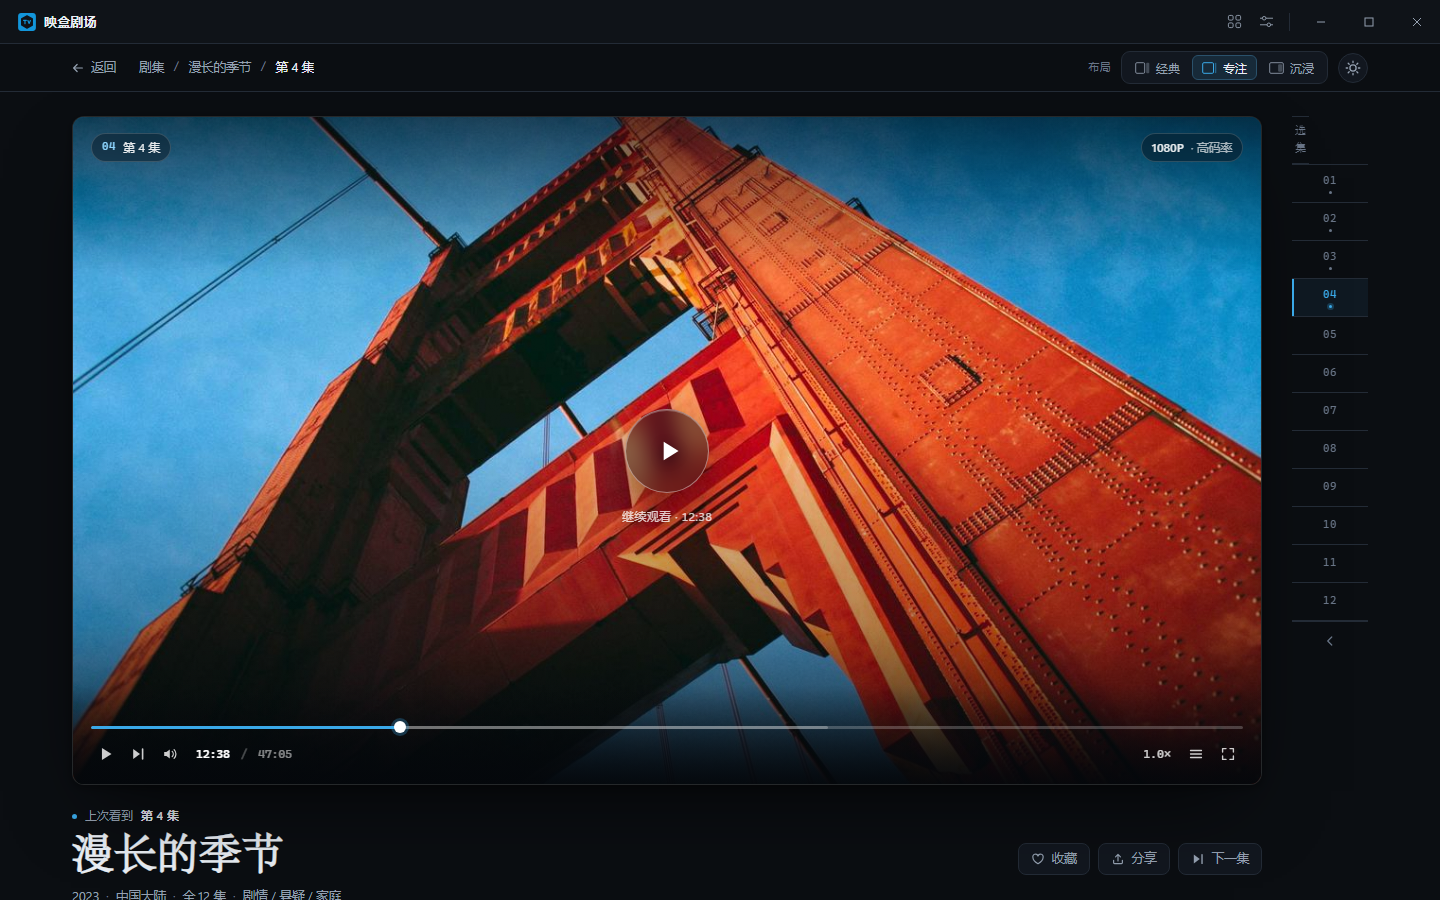
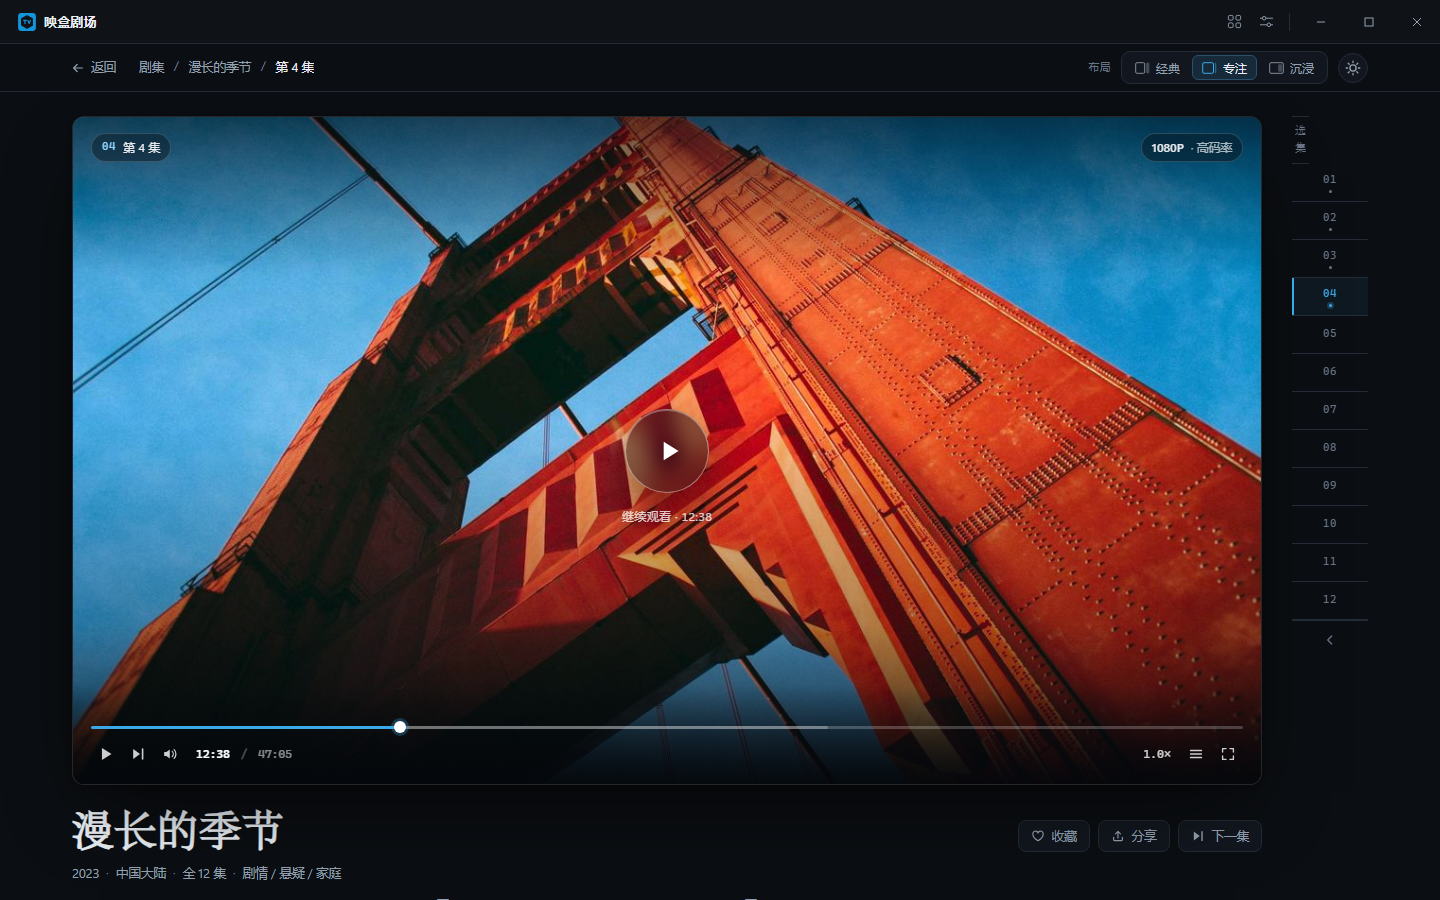
docs: refine playback prototype layout and assets
Polish the 播放页原型: reposition the immersive sidebar below the title bar, tighten focus/immersive layouts, document ?tab and ?autoplay params, and improve accessibility (favorite aria-pressed with filled heart, episode aria-labels, tab arrow-key propagation) plus a guarded localStorage read and a fixed autoplay-next animation restart. Replace the underscore-prefixed asset set with a cleaned-up set of screenshots and refresh the remaining ones.

diff --git a/docs/播放页原型.html b/docs/播放页原型.html
@@ -18,6 +18,7 @@
       不加载真实视频；默认深色是「熄灯看片」的意思，?theme=light 可看浅色。
 
       直接看某个变体：?layout=focus 或 ?layout=immersive
+      侧栏标签：?tab=info 或 ?tab=related；播放态：?autoplay=1
       素材：docs/首页原型素材/，预览：docs/播放页原型预览/
     -->
     <style>
@@ -976,10 +977,6 @@
         color: var(--accent);
       }
 
-      .act.is-on .ic path {
-        fill: currentColor;
-      }
-
       .meta {
         margin: 9px 0 0;
         color: var(--text-muted);
@@ -1627,6 +1624,10 @@
         border-top: 0;
       }
 
+      body[data-layout='focus'] .eyebrow {
+        display: none;
+      }
+
       body[data-layout='focus'] .ep {
         height: 38px;
         grid-template-columns: 1fr;
@@ -1820,18 +1821,17 @@
       body[data-layout='immersive'] .side {
         position: absolute;
         z-index: 8;
-        top: 50%;
+        top: 104px;
         right: 24px;
         display: flex;
         width: 322px;
-        max-height: calc(100% - 128px);
+        max-height: calc(100% - 190px);
         flex-direction: column;
         padding: 15px 15px 11px;
         border: 1px solid color-mix(in srgb, var(--text) 16%, transparent);
         border-radius: 14px;
         background: color-mix(in srgb, var(--surface) 78%, transparent);
         box-shadow: 0 28px 70px rgba(0, 0, 0, 0.42);
-        transform: translateY(-50%);
         backdrop-filter: blur(22px) saturate(1.2);
         transition:
           opacity 240ms ease,
@@ -1860,7 +1860,11 @@
       body[data-layout='immersive'] .side.is-hidden {
         opacity: 0;
         pointer-events: none;
-        transform: translate(calc(100% + 44px), -50%);
+        transform: translateX(calc(100% + 44px));
+      }
+
+      body[data-layout='immersive'] .ep {
+        height: 40px;
       }
 
       body[data-layout='immersive'] .side-exit {
@@ -2250,6 +2254,12 @@
           stroke-linejoin="round"
         />
       </symbol>
+      <symbol id="i-heart-fill" viewBox="0 0 16 16">
+        <path
+          d="M8 13.4S2.2 10.1 2.2 6.3A3 3 0 0 1 8 4.6a3 3 0 0 1 5.8 1.7c0 3.8-5.8 7.1-5.8 7.1z"
+          fill="currentColor"
+        />
+      </symbol>
       <symbol id="i-share" viewBox="0 0 16 16" fill="none">
         <path
           d="M8 2.8v7.4M5.2 5.6 8 2.8l2.8 2.8M3 9.4v2.8c0 .6.4 1 1 1h8c.6 0 1-.4 1-1V9.4"
@@ -2527,7 +2537,7 @@
                 <div class="title-row">
                   <h1 class="title">漫长的季节</h1>
                   <div class="actions">
-                    <button class="act" type="button" id="favBtn">
+                    <button class="act" type="button" id="favBtn" aria-pressed="false">
                       <svg class="ic" viewBox="0 0 16 16" aria-hidden="true">
                         <use href="#i-heart" />
                       </svg>
@@ -2946,6 +2956,15 @@
         toastTimer = window.setTimeout(() => els.toast.classList.remove('is-on'), 1900)
       }
 
+      /** 本地存储被禁用时不要让整页脚本挂掉 */
+      function readStorage(key) {
+        try {
+          return localStorage.getItem(key)
+        } catch (error) {
+          return null
+        }
+      }
+
       function copyText(text) {
         if (navigator.clipboard && navigator.clipboard.writeText) {
           return navigator.clipboard.writeText(text).then(
@@ -2995,7 +3014,13 @@
               episode.n +
               ' 集 · ' +
               formatTime(episode.dur) +
-              (isCurrent ? ' · 正在播放' : isWatched ? ' · 已看完' : '')
+              (isCurrent
+                ? ' · ' + statusWord()
+                : isWatched
+                  ? ' · 已看完'
+                  : episode.progress > 0
+                    ? ' · 已看 ' + Math.round(episode.progress * 100) + '%'
+                    : '')
             return (
               '<li>' +
               '<button class="ep' +
@@ -3131,6 +3156,17 @@
         if (row) {
           const sub = row.querySelector('.ep-sub')
           if (sub) sub.textContent = statusWord() + ' · ' + formatTime(state.time)
+          row.setAttribute(
+            'aria-label',
+            '第 ' +
+              state.ep +
+              ' 集，' +
+              statusWord() +
+              ' ' +
+              formatTime(state.time) +
+              '，时长 ' +
+              formatTime(currentEpisode().dur)
+          )
         }
         els.resumeHint.textContent = state.time > 0 ? '继续观看 · ' + formatTime(state.time) : '播放本集'
         els.resumeHint.hidden = state.playing
@@ -3183,6 +3219,8 @@
           setTime(episode.dur)
           if (state.ep < EPISODES.length) {
             selectEpisode(state.ep + 1, { autoplay: true, silent: true })
+            lastFrame = 0
+            rafId = window.requestAnimationFrame(tick)
             showToast('第 ' + state.ep + ' 集自动接上了')
           } else {
             setPlaying(false)
@@ -3486,6 +3524,7 @@
         button.addEventListener('keydown', (event) => {
           if (event.key !== 'ArrowRight' && event.key !== 'ArrowLeft') return
           event.preventDefault()
+          event.stopPropagation()
           const index = els.tabs.indexOf(button)
           const next =
             event.key === 'ArrowRight'
@@ -3521,6 +3560,8 @@
       els.favBtn.addEventListener('click', () => {
         state.fav = !state.fav
         els.favBtn.classList.toggle('is-on', state.fav)
+        els.favBtn.setAttribute('aria-pressed', String(state.fav))
+        els.favBtn.querySelector('use').setAttribute('href', state.fav ? '#i-heart-fill' : '#i-heart')
         els.favText.textContent = state.fav ? '已收藏' : '收藏'
         showToast(state.fav ? '已加入收藏' : '已取消收藏')
       })
@@ -3591,11 +3632,11 @@
 
       function init() {
         const params = new URLSearchParams(window.location.search)
-        const storedTheme = localStorage.getItem('watch-theme')
+        const storedTheme = readStorage('watch-theme')
         const theme = params.get('theme') || storedTheme || 'dark'
         applyTheme(theme === 'light' ? 'light' : 'dark')
 
-        const storedLayout = localStorage.getItem('watch-layout')
+        const storedLayout = readStorage('watch-layout')
         const requestedLayout = params.get('layout') || storedLayout || 'classic'
         const layout = ['classic', 'focus', 'immersive'].includes(requestedLayout)
           ? requestedLayout
